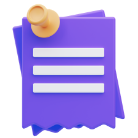
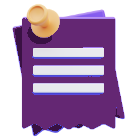
adding the notes page

diff --git a/src/assets/css/style.scss b/src/assets/css/style.scss
@@ -4,6 +4,7 @@ $background-color-light: #fff;
 $background-color-dark: #000000;
 $background-color-gray: #333333;
 $primary-color: #9869a3;
+$primary-color-noter: #51265a;
 $background-color-span: #a03cb65d;
 $background-color-transparent: #af5ac22f;
 // Text colors
@@ -444,5 +445,80 @@ ul {
     .footer-content {
         float: none;
         width: 100%;
+    }
+}
+
+/* noter page */
+.noter-body {
+    background-color: $background-color-transparent;
+    .noter-nav {
+        background-color: $primary-color;
+        height: 110px;
+    }
+    .noter-img {
+        width: 100px;
+        height: 90px;
+    }
+    .noter-container {
+        display: flex;
+        flex-wrap: wrap;
+        .btn-add {
+            outline: none;
+            background-color: $primary-color;
+            color: $text-color-light;
+            border-radius: 30px;
+            border: none;
+            cursor: pointer;
+            &:hover {
+                color: $background-color-dark;
+                background-color: $background-color-span;
+            }
+        }
+        .note-wrapper {
+            background-color: $background-color-light;
+            box-shadow: 0 0 10px 5px rgba(0, 0, 0, 0.1);
+            width: 300px;
+            height: 200px;
+            font-size: 1.2rem;
+            border-radius: 5px;
+            margin: 20px;
+            .operations {
+                background: $primary-color-noter;
+                border-top-left-radius: 5px;
+                border-top-right-radius: 5px;
+                button {
+                    border: none;
+                    background: transparent;
+                    cursor: pointer;
+                    font-size: 1.1rem;
+                    color: $background-color-light;
+                    &:hover {
+                        color: $background-color-dark;
+                    }
+                }
+            }
+            textarea {
+                outline: none;
+                border: none;
+                resize: none;
+                font-family: inherit;
+                font-size: 1.2rem;
+                width: 100%;
+                height: 155px;
+                padding: 20px;
+                border-radius: 5px;
+            }
+            .main {
+                padding: 10px;
+            }
+            .hidden {
+                display: none;
+            }
+        }
+    }
+    .note-container {
+        display: flex;
+        flex-wrap: wrap;
+        justify-content: center;
     }
 }

diff --git a/app.js b/app.js
@@ -14,3 +14,64 @@ document.addEventListener("mousemove", (event) => {
   prevX = mouseX;
   prevY = mouseY;
 });
+
+const btnAdd = document.querySelector(".btn-add");
+const noteContainer = document.querySelector(".note-container");
+const notes = JSON.parse(localStorage.getItem("notes"));
+
+if (notes) {
+  notes.forEach((noteTxt) => addNote(noteTxt));
+}
+
+if (btnAdd) {
+  btnAdd.addEventListener("click", () => addNote());
+}
+
+function addNote(text = "") {
+  const note = document.createElement("div");
+  note.classList.add("note-wrapper");
+  note.innerHTML = `
+    <div class="operations d-flex justify-content-end p-2">
+      <button class="edit mx-1 mt-1" type="button" title="Edit">
+        <i class="fas fa-edit"></i>
+      </button>
+      <button class="delete mx-1 mt-1" type="button" title="Delete">
+        <i class="fas fa-trash-alt"></i>
+      </button>
+    </div> 
+    <div class="main ${text ? "" : "hidden"}"></div>
+    <textarea title="Note content" class="${text ? "hidden" : ""}"></textarea>
+  `;
+
+  const editBtn = note.querySelector(".edit");
+  const deleteBtn = note.querySelector(".delete");
+  const mainEle = note.querySelector(".main");
+  const textareaEle = note.querySelector("textarea");
+
+  textareaEle.value = text;
+  mainEle.innerHTML = text;
+
+  deleteBtn.addEventListener("click", () => {
+    note.remove();
+    updates();
+  });
+
+  editBtn.addEventListener("click", () => {
+    mainEle.classList.toggle("hidden");
+    textareaEle.classList.toggle("hidden");
+  });
+
+  textareaEle.addEventListener("input", (e) => {
+    const { value } = e.target;
+    mainEle.innerHTML = value;
+    updates();
+  });
+  noteContainer.appendChild(note);
+}
+
+function updates() {
+  const noteText = document.querySelectorAll("textarea");
+  const notes = [];
+  noteText.forEach((note) => notes.push(note.value));
+  localStorage.setItem("notes", JSON.stringify(notes));
+}

diff --git a/src/assets/css/style.css b/src/assets/css/style.css
@@ -415,5 +415,79 @@ ul {
     width: 100%;
   }
 }
+/* noter page */
+.noter-body {
+  background-color: rgba(175, 90, 194, 0.1843137255);
+}
+.noter-body .noter-nav {
+  background-color: #9869a3;
+  height: 110px;
+}
+.noter-body .noter-img {
+  width: 100px;
+  height: 90px;
+}
+.noter-body .noter-container {
+  display: flex;
+  flex-wrap: wrap;
+}
+.noter-body .noter-container .btn-add {
+  outline: none;
+  background-color: #9869a3;
+  color: #ffffff;
+  border-radius: 30px;
+  border: none;
+  cursor: pointer;
+}
+.noter-body .noter-container .btn-add:hover {
+  color: #000000;
+  background-color: rgba(160, 60, 182, 0.3647058824);
+}
+.noter-body .noter-container .note-wrapper {
+  background-color: #fff;
+  box-shadow: 0 0 10px 5px rgba(0, 0, 0, 0.1);
+  width: 300px;
+  height: 200px;
+  font-size: 1.2rem;
+  border-radius: 5px;
+  margin: 20px;
+}
+.noter-body .noter-container .note-wrapper .operations {
+  background: #51265a;
+  border-top-left-radius: 5px;
+  border-top-right-radius: 5px;
+}
+.noter-body .noter-container .note-wrapper .operations button {
+  border: none;
+  background: transparent;
+  cursor: pointer;
+  font-size: 1.1rem;
+  color: #fff;
+}
+.noter-body .noter-container .note-wrapper .operations button:hover {
+  color: #000000;
+}
+.noter-body .noter-container .note-wrapper textarea {
+  outline: none;
+  border: none;
+  resize: none;
+  font-family: inherit;
+  font-size: 1.2rem;
+  width: 100%;
+  height: 155px;
+  padding: 20px;
+  border-radius: 5px;
+}
+.noter-body .noter-container .note-wrapper .main {
+  padding: 10px;
+}
+.noter-body .noter-container .note-wrapper .hidden {
+  display: none;
+}
+.noter-body .note-container {
+  display: flex;
+  flex-wrap: wrap;
+  justify-content: center;
+}
 
 /*# sourceMappingURL=style.css.map */

diff --git a/noter.html b/noter.html
@@ -1,0 +1,55 @@
+<!doctype html>
+<html lang="en">
+  <head>
+    <meta charset="UTF-8" />
+    <meta http-equiv="X-UA-Compatible" content="IE=edge" />
+    <meta name="viewport" content="width=device-width, initial-scale=1.0" />
+    <link
+      rel="stylesheet"
+      href="node_modules/bootstrap/dist/css/bootstrap.min.css"
+    />
+    <link
+      rel="stylesheet"
+      href="node_modules/@fortawesome/fontawesome-free/css/all.min.css"
+    />
+    <link rel="stylesheet" href="./src/assets/css/style.css" />
+    <title>Noter</title>
+  </head>
+  <body class="noter-body">
+    <nav class="nav navbar navbar-expand-lg navbar-light noter-nav">
+      <div class="container">
+        <a class="navbar-brand" href="/index.html">
+          <img
+            src="./src/assets/images/noter-img.png"
+            alt="logo"
+            class="noter-logo p-1"
+          />
+        </a>
+      </div>
+    </nav>
+    <div class="container noter-container">
+      <div class="container my-2 mt-4 align-items-center">
+        <div class="d-flex align-items-center">
+          <img
+            src="./src/assets/images/notes.png"
+            alt="noter img"
+            class="noter-img"
+          />
+          <h2 class="fw-bold ms-3">My Notes</h2>
+        </div>
+        <div class="my-4">
+          <button class="btn-add p-2" type="button" title="Add note">
+            <i class="fas fa-pencil"></i> Add Note
+          </button>
+        </div>
+      </div>
+
+      <div class="note-container">
+        <!-- Your notes will be here -->
+      </div>
+    </div>
+
+    <script src="node_modules/bootstrap/dist/js/bootstrap.bundle.min.js"></script>
+    <script src="./app.js"></script>
+  </body>
+</html>

diff --git a/index.html b/index.html
@@ -49,7 +49,6 @@
             <a href="#about-section" class="nav-item nav-link me-2">
               About Us
             </a>
-            <!-- <a href="#" class="nav-item nav-link me-2"> Services </a> -->
             <a href="#whyUs-section" class="nav-item nav-link me-2"> Why Us </a>
             <a href="#contact-section" class="nav-item nav-link me-2">
               Contact Us
@@ -58,7 +57,7 @@
               class="box-hover d-flex align-items-center justify-content-center text-center me-2"
             >
               <button type="button" class="create-note px-3 me-2">
-                <a href="#" class="nav-item nav-link links"> Create Notes </a>
+                <a href="/noter.html" class="nav-item nav-link links"> Create Notes </a>
               </button>
             </div>
           </nav>
